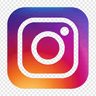
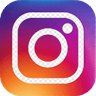
Los iconos de redes tenían el fondo pegado, no transparencia
Los archivos venían de bancos de imágenes con el damero DIBUJADO en gris en vez
de un canal alfa: Instagram y TikTok salían con un fondo a cuadros. Sobre la
tarjeta blanca de Zattia se veía igual, y habría aparecido como un cuadrado
sucio en cuanto otra marca usara un fondo distinto — o sea, se descubría en el
mail de otro comerciante.

Se cala el fondo por inundación desde los BORDES, no por color: el glifo de
TikTok es blanco y un filtro de "todo lo claro" se lo habría comido. Lo que
queda encerrado dentro del círculo se conserva.

⚠ `metadata().hasAlpha` MIENTE con los PNG de paleta: devuelve false con la
transparencia intacta, y por eso el primer intento de comprimir pareció
destruirla. La prueba que no miente —y la que quedó en probar-redes.ts— es
componer el icono sobre magenta y mirar la esquina. Verificada en rojo aplanando
un icono a propósito.

Los tres pesan 9,4 KB en total, y el egress de una imagen se paga por
destinatario.

diff --git a/scripts/probar-redes.ts b/scripts/probar-redes.ts
@@ -8,6 +8,7 @@
 //
 //   node --import tsx scripts/probar-redes.ts
 import { existsSync, readFileSync } from "node:fs";
+import sharp from "sharp";
 import { renderEmailHtml } from "../lib/email/render";
 import { REDES, redConIcono } from "../lib/email/redes";
 import type { Bloque } from "../lib/email/bloques";
@@ -80,5 +81,35 @@ ok(srcs.length === REDES.length, `dibuja los ${REDES.length} iconos`);
 ok(srcs.every((s) => s.startsWith("https://")), "todos los src son absolutos y https");
 ok(!srcs.some((s) => s.includes("//redes")), "ninguno quedó con doble barra");
 
-console.log(fallos === 0 ? "\n✅ Todo verde\n" : `\n❌ ${fallos} fallo(s)\n`);
-process.exit(fallos === 0 ? 0 : 1);
+// Va al final y en una función porque necesita `await` (tsx compila este script
+// a CJS y no admite await de nivel superior).
+async function transparenciaReal() {
+  console.log("\n7) 🔴 Los archivos tienen transparencia DE VERDAD");
+  // Los PNG de banco de imágenes traen el damero DIBUJADO en gris en vez de un
+  // canal alfa. Sobre la tarjeta blanca de Zattia se ve idéntico, y aparece como
+  // un cuadrado sucio en cualquier marca con otro fondo — o sea, se descubre en
+  // el mail de OTRO comerciante. Pasó con Instagram y TikTok el 31-jul-2026.
+  //
+  // ⚠ `metadata().hasAlpha` MIENTE con los PNG de paleta: devuelve `false` con
+  // la transparencia intacta. La única prueba que no miente es componer el icono
+  // sobre un color y mirar una esquina.
+  for (const r of REDES) {
+    const p = `public/redes/${r.slug}.png`;
+    if (!existsSync(p)) continue;
+    const compuesto = await sharp({
+      create: { width: 96, height: 96, channels: 3, background: { r: 255, g: 0, b: 255 } },
+    })
+      .composite([{ input: await sharp(p).resize(96, 96).toBuffer() }])
+      .raw()
+      .toBuffer();
+    ok(
+      compuesto[0] === 255 && compuesto[1] === 0 && compuesto[2] === 255,
+      `${r.slug}.png: la esquina es transparente, no un fondo pegado`,
+    );
+  }
+}
+
+transparenciaReal().then(() => {
+  console.log(fallos === 0 ? "\n✅ Todo verde\n" : `\n❌ ${fallos} fallo(s)\n`);
+  process.exit(fallos === 0 ? 0 : 1);
+});
